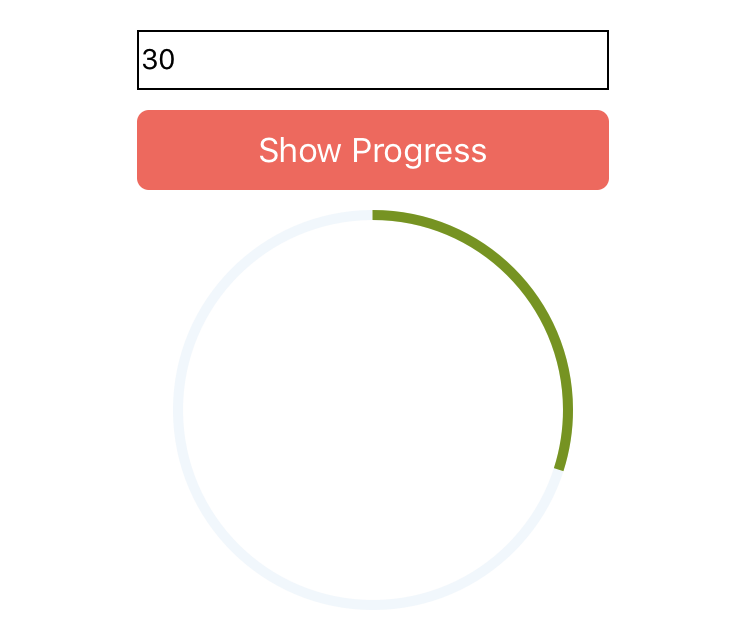
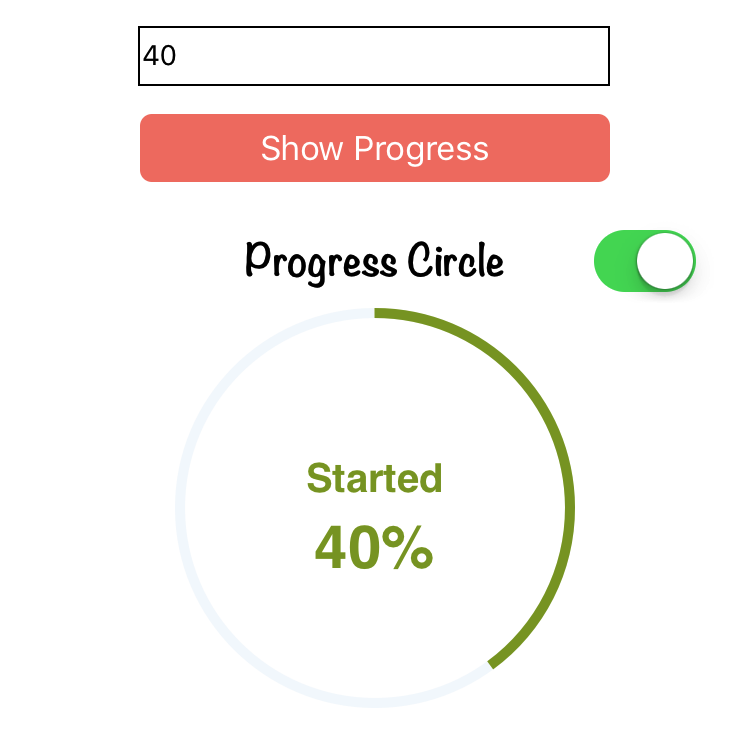
README updated for Progress circle.

diff --git a/README.md b/README.md
@@ -40,6 +40,8 @@ showButton.cornerRadius = 20
 * Width of circle
 * Higlighted progress color
 * Default color of circle.
+* Title for progress inside circle
+* Shows progress value inside circle 
 ![InnoProgressViewCircle Icon](Resources/InnoProgressViewCircle.png "InnoProgressViewCircle Icon")
 
 #### Usage
@@ -51,6 +53,17 @@ Progress value range is 0.0 to 1.0 cgfloat value. Here below progress value is c
 ```swift
 customProgressView.setNeedsDisplay()
 customProgressView.progress = CGFloat(Float(progressValTextFld.text!)!)/100
+```
+For customizing the progress circle title and lable, can do programetically or can directly hide/show from IB also. Can hide or show title & label for progress circle as shown below.
+```swift
+@IBAction func switchStateChanged(_ sender: UISwitch) {
+customProgressView.setNeedsDisplay()
+if sender.isOn {
+customProgressView.showTitle = true
+} else {
+customProgressView.showTitle = false
+}
+}
 ```
 ### Custom progress view bar
 
